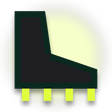
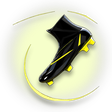
Added emotes and channel points

diff --git a/index.html b/index.html
@@ -7323,7 +7323,7 @@
       <a class="proj-btn" href="images/twitch/Strikeline/Points/points_score_432.png?v=5d4de56b" target="_blank" rel="noopener" title="Twitch channel point icon: Strikeline points score">Strikeline points score</a>
       <a class="proj-btn" href="images/twitch/Strikeline/Points/points_whistle_432.png?v=5139b3e0" target="_blank" rel="noopener" title="Twitch channel point icon: Strikeline points whistle">Strikeline points whistle</a>
       <a class="proj-btn" href="images/twitch/Tessel/Points/points_ball_432.png?v=29e26040" target="_blank" rel="noopener" title="Twitch channel point icon: Tessel points ball">Tessel points ball</a>
-      <a class="proj-btn" href="images/twitch/Tessel/Points/points_boot_432.png?v=e109f2c1" target="_blank" rel="noopener" title="Twitch channel point icon: Tessel points boot">Tessel points boot</a>
+      <a class="proj-btn" href="images/twitch/Tessel/Points/points_boot_432.png?v=8feaed06" target="_blank" rel="noopener" title="Twitch channel point icon: Tessel points boot">Tessel points boot</a>
       <a class="proj-btn" href="images/twitch/Tessel/Points/points_flag_432.png?v=247bb5bc" target="_blank" rel="noopener" title="Twitch channel point icon: Tessel points flag">Tessel points flag</a>
       <a class="proj-btn" href="images/twitch/Tessel/Points/points_whistle_432.png?v=4c78c86a" target="_blank" rel="noopener" title="Twitch channel point icon: Tessel points whistle">Tessel points whistle</a>
     </div>
@@ -7635,7 +7635,7 @@
       <a class="proj-btn" href="images/twitch/Strikeline/Emotes/sub_in_448.png?v=474e181a" target="_blank" rel="noopener" title="Twitch emote: Strikeline sub in">Strikeline sub in</a>
       <a class="proj-btn" href="images/twitch/Strikeline/Emotes/whistle_s_448.png?v=057af5c3" target="_blank" rel="noopener" title="Twitch emote: Strikeline whistle s">Strikeline whistle s</a>
       <a class="proj-btn" href="images/twitch/Emotes/surprise_448.png?v=7e867b52" target="_blank" rel="noopener" title="Twitch emote: Surprise">Surprise</a>
-      <a class="proj-btn" href="images/twitch/Tessel/Emotes/boot_up_448.png?v=c7bb62d0" target="_blank" rel="noopener" title="Twitch emote: Tessel boot up">Tessel boot up</a>
+      <a class="proj-btn" href="images/twitch/Tessel/Emotes/boot_up_448.png?v=e505b72f" target="_blank" rel="noopener" title="Twitch emote: Tessel boot up">Tessel boot up</a>
       <a class="proj-btn" href="images/twitch/Tessel/Emotes/cheer_448.png?v=0bd7fab7" target="_blank" rel="noopener" title="Twitch emote: Tessel cheer">Tessel cheer</a>
       <a class="proj-btn" href="images/twitch/Tessel/Emotes/corner_flag_448.png?v=4e5dfb83" target="_blank" rel="noopener" title="Twitch emote: Tessel corner flag">Tessel corner flag</a>
       <a class="proj-btn" href="images/twitch/Tessel/Emotes/gg_pitch_448.png?v=92d5471a" target="_blank" rel="noopener" title="Twitch emote: Tessel gg pitch">Tessel gg pitch</a>

diff --git a/tools/make_emotes.py b/tools/make_emotes.py
@@ -161,9 +161,12 @@ def prop(d, S, kind, cx, cy, r, C):
         d.rounded_rectangle((X(rx - r * 0.3), X(ry - r * 0.1), X(rx + r * 0.22), X(ry + r * 0.16)), radius=int(r * 0.1 * S), fill=(226, 230, 238, 255), outline=ink, width=w)
         disc(rx + r * 0.1, ry + r * 0.08, r * 0.15, (226, 230, 238, 255))
     elif kind == "boot":
-        poly([(rx - r * 0.3, ry - r * 0.3), (rx - r * 0.05, ry - r * 0.3), (rx, ry + r * 0.05), (rx + r * 0.38, ry + r * 0.18), (rx + r * 0.38, ry + r * 0.34), (rx - r * 0.3, ry + r * 0.34)], (30, 30, 34, 255))
-        for k in range(4):
-            d.rectangle((X(rx - r * 0.24 + k * r * 0.18), X(ry + r * 0.34), X(rx - r * 0.18 + k * r * 0.18), X(ry + r * 0.44)), fill=a)
+        import make_brands as mb
+        bt = mb.load("Footballboot.png")
+        bt = bt.crop(bt.split()[3].point(lambda v: 255 if v > 10 else 0).getbbox())
+        sz = max(8, int(r * 1.25 * S))
+        bt.thumbnail((sz, sz))
+        d._image.alpha_composite(bt, (int((rx - r * 0.15) * S - bt.width / 2), int((ry + r * 0.1) * S - bt.height / 2)))
     elif kind == "flag":
         d.line([(X(rx - r * 0.2), X(ry + r * 0.5)), (X(rx - r * 0.2), X(ry - r * 0.35))], fill=ink, width=w * 2)
         poly([(rx - r * 0.2, ry - r * 0.35), (rx + r * 0.32, ry - r * 0.2), (rx - r * 0.2, ry - r * 0.04)], m)
